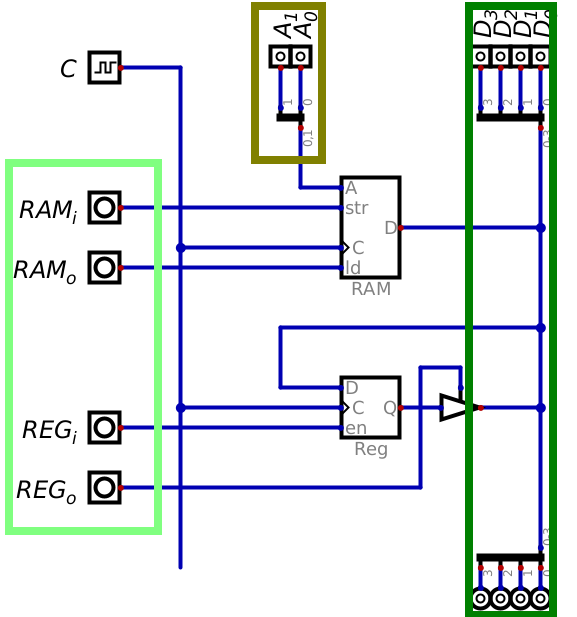
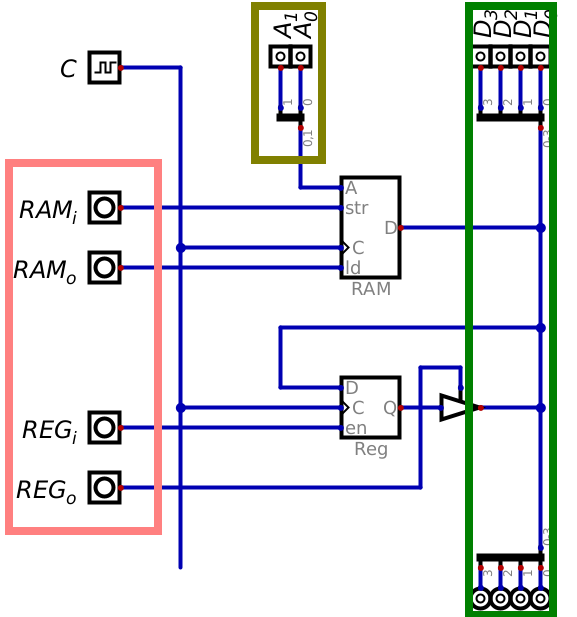
explain connections

Changed region(s): [[0.0, 0.2464, 0.2808, 0.893]]

diff --git a/site/topics/layout/bus.rst b/site/topics/layout/bus.rst
@@ -77,36 +77,54 @@ Connecting Components
     :width: 500 px
     :align: center
 
-    RAM and a register connected to a BUS. This configuration allows for inputting data into the bus from an external
-    source (the input buttons), controlling the memory address used in RAM, and controlling when the RAM and register
-    components are inputting/outputting data. 
+    RAM and a register connected to various busses. This configuration allows for inputting data into the bus from an
+    external source (the input buttons), controlling the memory address used in RAM, and controlling when the RAM and
+    register components are inputting/outputting data.
 
 
-Here is a configuration
-It's important how the components are connected
-But the location of components are arbitrary
+* Above is a RAM component connected to a register component via a data bus
+* With this configuration, data can be inputted into the system via the input buttons
+* The memory address the RAM component is referencing is controlled by address input buttons
+* Finally, the components are controlled by turning on/off their inputs and outputs
+
+* Here, how the components' signal lines are connected is important, not the actual physical layout of the components
+
+    * The location of each component in the layout is arbitrary
 
 
-The thre busses are in this image
-Data bus
-    for data
-    here, the data bus is tri-state
-    Will be clear why this is important later
-    Output at bottom is only so one can see what is currently on the data bus
+* Within this layout are three physically separate busses
 
-Address Bus
-    for memory addresses
-    Labels
+    * The data bus
 
-
-Control Bus
-    For controlling the components
-    labels
-
-IMAGE
+        * For transferring data between components
+        * In this configuration, there are four data lines, but more could be added
+        * Here, data can be inputted into the system via the buttons labelled :math:`D_{0}` through :math:`D_{3}`
+        * The data buttons are tri-state to provide a way to not input any value from an external source
+        * The outputs at the bottom is there so one can see what value is on the bus at any given time
 
 
+    * The address bus
 
+        * For controlling which memory address in RAM is currently being used
+        * Here, for simplicity, there are two address lines, meaning only four memory addresses can be accessed from RAM
+        * These are controllable via the buttons labelled :math:`A_{0}` through :math:`A_{2}`
+
+
+    * The control bus
+
+        * Controls when individual components are reading from or writing to the data bus
+        * Here, each is labeled with an :math:`i` or :math:`o` signifying input or output
+
+
+* Below is an image of the layout with the busses identified
+
+.. figure:: ram_register_schematic_bus_labels.png
+    :width: 500 px
+    :align: center
+
+    Configuration of a RAM component and a register component connected to various busses. These data bus is shown
+    within the green box on the right, the address bus is the yellow box in the top centre, and the control bus is shown
+    by the pink box on the left.
 
 
 Loading Data into RAM
